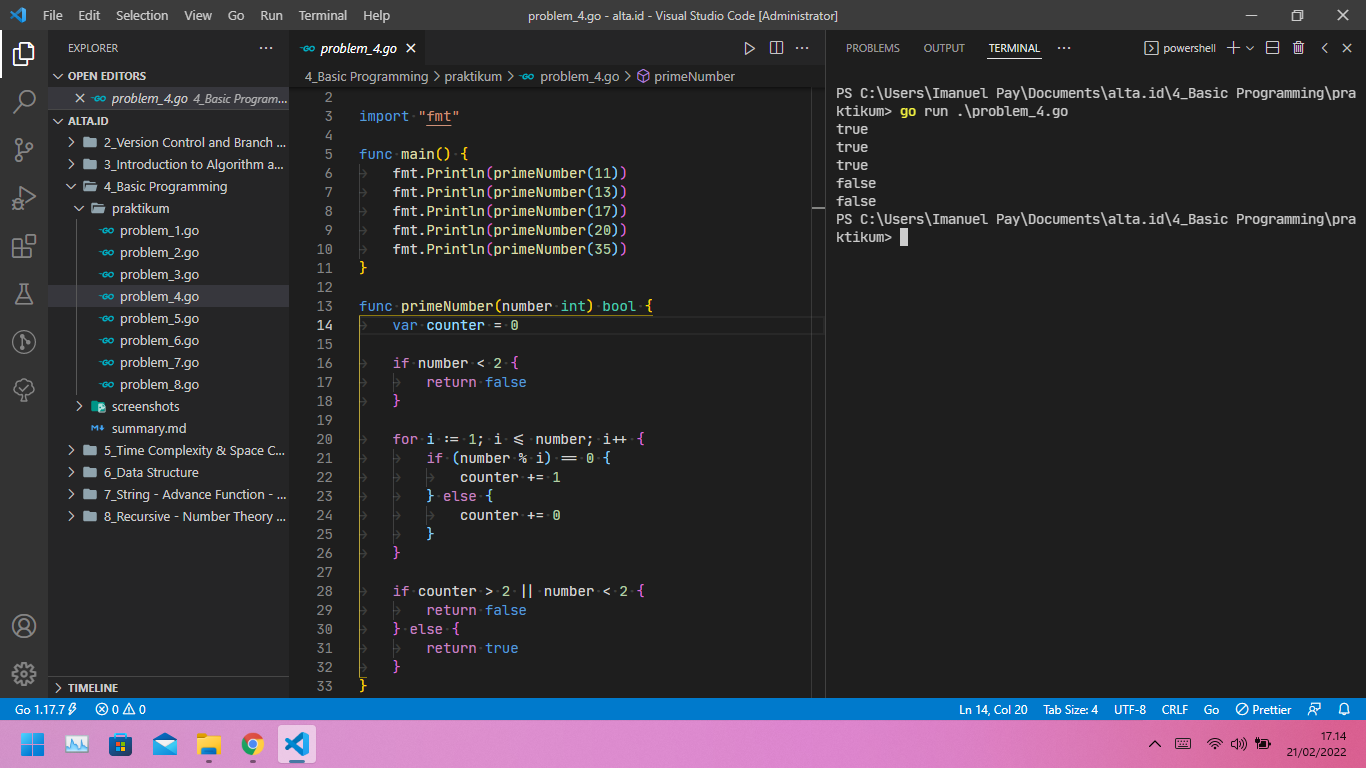
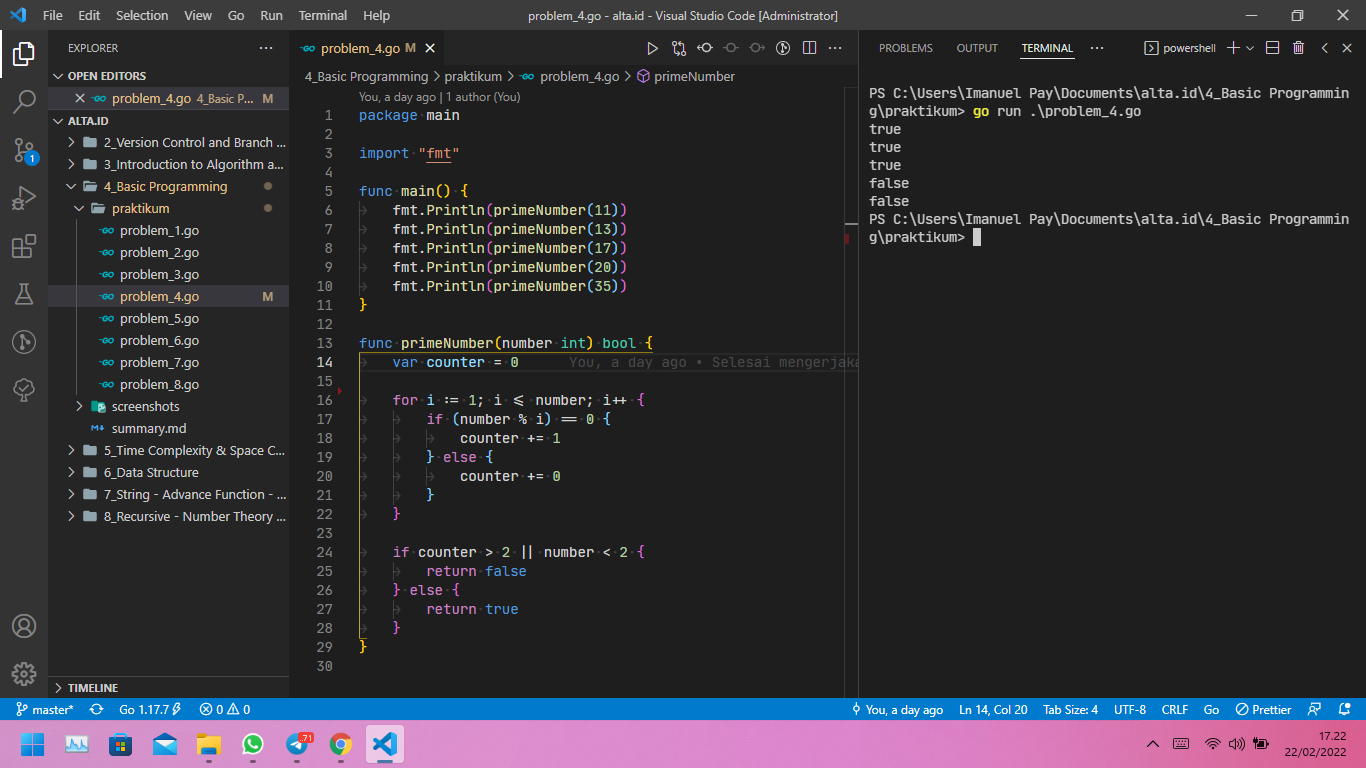
Finish summary section 4

diff --git a/4_Basic Programming/praktikum/problem_4.go b/4_Basic Programming/praktikum/problem_4.go
@@ -13,10 +13,6 @@ func main() {
 func primeNumber(number int) bool {
 	var counter = 0
 
-	if number < 2 {
-		return false
-	}
-
 	for i := 1; i <= number; i++ {
 		if (number % i) == 0 {
 			counter += 1
